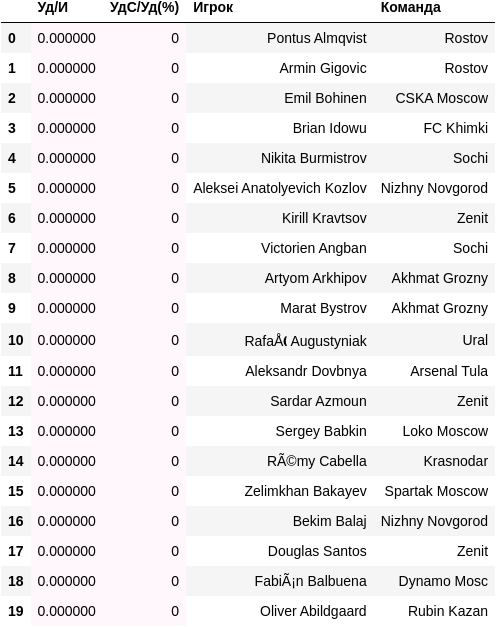
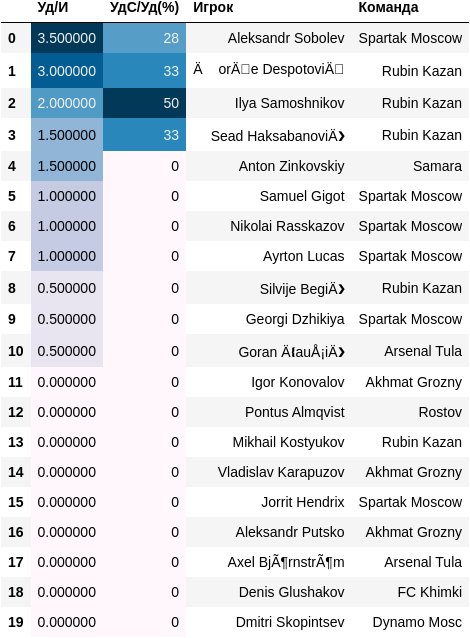
Fix some bugs in updating

diff --git a/domain/player_stats.py b/domain/player_stats.py
@@ -38,7 +38,7 @@ class PlayerStatsManager(Manager):
         session.close()
         return result
 
-    def __update_player(self, cur_player: PlayerStats) -> PlayerStats:
+    def __update_player(self, cur_player: PlayerStats) -> bool:
         """
         Update player stats for next round
         """
@@ -46,60 +46,60 @@ class PlayerStatsManager(Manager):
         try:
             session.query(PlayerStats).filter(PlayerStats.id == cur_player.id).update({
                 # round 0
-                'r0_minutes': cur_player["r1_minutes"],
-                'r0_shoots': cur_player["r1_shoots"],
-                'r0_shoots_on_target': cur_player["r1_shoots_on_target"],
-                'r0_xg': cur_player["r1_xg"],
-                'r0_npxg': cur_player["r1_npxg"],
-                'r0_xa': cur_player["r1_xa"],
-                'r0_sca': cur_player["r1_sca"],
-                'r0_gca': cur_player["r1_gca"],
+                'r0_minutes': cur_player.r1_minutes,
+                'r0_shoots': cur_player.r1_shoots,
+                'r0_shoots_on_target': cur_player.r1_shoots_on_target,
+                'r0_xg': cur_player.r1_xg,
+                'r0_npxg': cur_player.r1_npxg,
+                'r0_xa': cur_player.r1_xa,
+                'r0_sca': cur_player.r1_sca,
+                'r0_gca': cur_player.r1_gca,
                 # round 1
-                'r1_minutes': cur_player["r2_minutes"],
-                'r1_shoots': cur_player["r2_shoots"],
-                'r1_shoots_on_target': cur_player["r2_shoots_on_target"],
-                'r1_xg': cur_player["r2_xg"],
-                'r1_npxg': cur_player["r2_npxg"],
-                'r1_xa': cur_player["r2_xa"],
-                'r1_sca': cur_player["r2_sca"],
-                'r1_gca': cur_player["r2_gca"],
+                'r1_minutes': cur_player.r2_minutes,
+                'r1_shoots': cur_player.r2_shoots,
+                'r1_shoots_on_target': cur_player.r2_shoots_on_target,
+                'r1_xg': cur_player.r2_xg,
+                'r1_npxg': cur_player.r2_npxg,
+                'r1_xa': cur_player.r2_xa,
+                'r1_sca': cur_player.r2_sca,
+                'r1_gca': cur_player.r2_gca,
                 # round 2
-                'r2_minutes': cur_player["r3_minutes"],
-                'r2_shoots': cur_player["r3_shoots"],
-                'r2_shoots_on_target': cur_player["r3_shoots_on_target"],
-                'r2_xg': cur_player["r3_xg"],
-                'r2_npxg': cur_player["r3_npxg"],
-                'r2_xa': cur_player["r3_xa"],
-                'r2_sca': cur_player["r3_sca"],
-                'r2_gca': cur_player["r3_gca"],
+                'r2_minutes': cur_player.r3_minutes,
+                'r2_shoots': cur_player.r3_shoots,
+                'r2_shoots_on_target': cur_player.r3_shoots_on_target,
+                'r2_xg': cur_player.r3_xg,
+                'r2_npxg': cur_player.r3_npxg,
+                'r2_xa': cur_player.r3_xa,
+                'r2_sca': cur_player.r3_sca,
+                'r2_gca': cur_player.r3_gca,
                 # round 3
-                'r3_minutes': cur_player["r4_minutes"],
-                'r3_shoots': cur_player["r4_shoots"],
-                'r3_shoots_on_target': cur_player["r4_shoots_on_target"],
-                'r3_xg': cur_player["r4_xg"],
-                'r3_npxg': cur_player["r4_npxg"],
-                'r3_xa': cur_player["r4_xa"],
-                'r3_sca': cur_player["r4_sca"],
-                'r3_gca': cur_player["r4_gca"],
+                'r3_minutes': cur_player.r4_minutes,
+                'r3_shoots': cur_player.r4_shoots,
+                'r3_shoots_on_target': cur_player.r4_shoots_on_target,
+                'r3_xg': cur_player.r4_xg,
+                'r3_npxg': cur_player.r4_npxg,
+                'r3_xa': cur_player.r4_xa,
+                'r3_sca': cur_player.r4_sca,
+                'r3_gca': cur_player.r4_gca,
                 # round 4
-                'r4_minutes': cur_player["r5_minutes"],
-                'r4_shoots': cur_player["r5_shoots"],
-                'r4_shoots_on_target': cur_player["r5_shoots_on_target"],
-                'r4_xg': cur_player["r5_xg"],
-                'r4_npxg': cur_player["r5_npxg"],
-                'r4_xa': cur_player["r5_xa"],
-                'r4_sca': cur_player["r5_sca"],
-                'r4_gca': cur_player["r5_gca"],
+                'r4_minutes': cur_player.r5_minutes,
+                'r4_shoots': cur_player.r5_shoots,
+                'r4_shoots_on_target': cur_player.r5_shoots_on_target,
+                'r4_xg': cur_player.r5_xg,
+                'r4_npxg': cur_player.r5_npxg,
+                'r4_xa': cur_player.r5_xa,
+                'r4_sca': cur_player.r5_sca,
+                'r4_gca': cur_player.r5_gca,
             })
-            upd_player = session.query(PlayerStats).filter(PlayerStats.id == cur_player.id).first()
-            return upd_player
+            session.commit()
+            return True
         except Exception as ex:
             # TODO logging
             print(ex)
             exc_type, exc_obj, exc_tb = sys.exc_info()
             fname = os.path.split(exc_tb.tb_frame.f_code.co_filename)[1]
             print(exc_type, fname, exc_tb.tb_lineno)
-            return None
+            return False
         finally:
             session.commit()
             session.close()
@@ -110,7 +110,11 @@ class PlayerStatsManager(Manager):
         if last3_minutes < self.LAST3_MIN:
             last3_minutes = 0
             last3_shoots = 0
-        last3_shoots_per_game = last3_shoots * last3_minutes
+
+        if last3_minutes > 0:
+            last3_shoots_per_game = last3_shoots / last3_minutes
+        else:
+            last3_shoots_per_game = 0
         if last3_shoots == 0:
             last3_on_target_per_shoot = 0
         else:
@@ -122,7 +126,11 @@ class PlayerStatsManager(Manager):
         if last5_minutes < self.LAST5_MIN:
             last5_minutes = 0
             last5_shoots = 0
-        last5_shoots_per_game = last5_shoots * last5_minutes
+
+        if last5_minutes > 0:
+            last5_shoots_per_game = last5_shoots / last5_minutes
+        else:
+            last5_shoots_per_game = 0
         if last5_shoots == 0:
             last5_on_target_per_shoot = 0
         else:
@@ -139,7 +147,13 @@ class PlayerStatsManager(Manager):
                 cur_player: PlayerStats = self.get_player(player_stat)
                 if cur_player:
                     if new_round:
-                        cur_player = self.__update_player(cur_player)
+                        if self.__update_player(cur_player):
+                            # session.refresh(cur_player)
+                            cur_player: PlayerStats = self.get_player(player_stat)
+                        else:
+                            # TODO logging!!!
+                            print("Error")
+                            pass
                     last3_shoots_per_game, last3_on_target_per_shoot, last5_shoots_per_game, \
                     last5_on_target_per_shoot = self.__compute_shoots(player_stat, cur_player)
 
@@ -153,6 +167,7 @@ class PlayerStatsManager(Manager):
                         'last5_shoots_per_game': last5_shoots_per_game,
                         'last5_on_target_per_shoot': last5_on_target_per_shoot
                     })
+                    session.commit()
                 else:  # if new player
                     session.add(PlayerStats(player_stat['name'], league_name, player_stat['team'],
                                             player_stat['position']))
@@ -180,16 +195,22 @@ class PlayerStatsManager(Manager):
         last3_minutes = player_info["minutes"] - player_stat.r2_minutes
         if last3_minutes < self.LAST3_MIN:
             last3_minutes = 0
-        last3_xg_per_game = last3_minutes * (player_info["xg"] - player_stat.r2_xg)
-        last3_npxg_per_game = last3_minutes * (player_info["npxg"] - player_stat.r2_npxg)
-        last3_xa_per_game = last3_minutes * (player_info["xa"] - player_stat.r2_xa)
+        if last3_minutes > 0:
+            last3_xg_per_game = (player_info["xg"] - player_stat.r2_xg) / last3_minutes
+            last3_npxg_per_game = (player_info["npxg"] - player_stat.r2_npxg) / last3_minutes
+            last3_xa_per_game = (player_info["xa"] - player_stat.r2_xa) / last3_minutes
+        else:
+            last3_xg_per_game, last3_npxg_per_game, last3_xa_per_game = 0, 0, 0
 
         last5_minutes = player_info["minutes"] - player_stat.r0_minutes
         if last5_minutes < self.LAST5_MIN:
             last5_minutes = 0
-        last5_xg_per_game = last5_minutes * (player_info["xg"] - player_stat.r0_xg)
-        last5_npxg_per_game = last5_minutes * (player_info["npxg"] - player_stat.r0_npxg)
-        last5_xa_per_game = last5_minutes * (player_info["xa"] - player_stat.r0_xa)
+        if last5_minutes > 0:
+            last5_xg_per_game = (player_info["xg"] - player_stat.r0_xg) / last5_minutes
+            last5_npxg_per_game = (player_info["npxg"] - player_stat.r0_npxg) / last5_minutes
+            last5_xa_per_game = (player_info["xa"] - player_stat.r0_xa) / last5_minutes
+        else:
+            last5_xg_per_game, last5_npxg_per_game, last5_xa_per_game = 0, 0, 0
 
         return (last3_xg_per_game, last3_npxg_per_game, last3_xa_per_game,
                 last5_xg_per_game, last5_npxg_per_game, last5_xa_per_game)
@@ -214,6 +235,7 @@ class PlayerStatsManager(Manager):
                         'last5_npxg_per_game': last5_npxg_per_game,
                         'last5_xa_per_game': last5_xa_per_game
                     })
+                    session.commit()
                 else:  # if new player
                     session.add(PlayerStats(player_stat['name'], league_name, player_stat['team'],
                                             player_stat['position']))
@@ -225,6 +247,7 @@ class PlayerStatsManager(Manager):
                             'r5_npxg': player_stat["npxg"],
                             'r5_xa': player_stat["xa"]
                         })
+                        session.commit()
             return True
         except Exception as ex:
             # TODO logging
@@ -241,14 +264,20 @@ class PlayerStatsManager(Manager):
         last3_minutes = player_info["minutes"] - player_stat.r2_minutes
         if last3_minutes < self.LAST3_MIN:
             last3_minutes = 0
-        last3_sca_per_game = last3_minutes * (player_info["sca"] - player_stat.r2_sca)
-        last3_gca_per_game = last3_minutes * (player_info["gca"] - player_stat.r2_gca)
+        if last3_minutes > 0:
+            last3_sca_per_game = (player_info["sca"] - player_stat.r2_sca) / last3_minutes
+            last3_gca_per_game = (player_info["gca"] - player_stat.r2_gca) / last3_minutes
+        else:
+            last3_sca_per_game, last3_gca_per_game = 0, 0
 
         last5_minutes = player_info["minutes"] - player_stat.r0_minutes
         if last5_minutes < self.LAST5_MIN:
             last5_minutes = 0
-        last5_sca_per_game = last5_minutes * (player_info["sca"] - player_stat.r0_sca)
-        last5_gca_per_game = last5_minutes * (player_info["gca"] - player_stat.r0_gca)
+        if last5_minutes > 0:
+            last5_sca_per_game = (player_info["sca"] - player_stat.r0_sca) / last5_minutes
+            last5_gca_per_game = (player_info["gca"] - player_stat.r0_gca) / last5_minutes
+        else:
+            last5_sca_per_game, last5_gca_per_game = 0, 0
 
         return last3_sca_per_game, last3_gca_per_game, last5_sca_per_game, last5_gca_per_game
 

diff --git a/utils/updates.py b/utils/updates.py
@@ -1,4 +1,5 @@
 import asyncio
+import datetime
 
 from handlers import dp
 from utils.notify_admins import notify_admin
@@ -17,32 +18,37 @@ async def update_players_stats(league_name: str, new_round: bool):
     player_stats_manager.update_league(league_name, new_round)
 
 
-async def update_league(league_name: str, upd_cnt: int):
-    new_round = league_info_manager.is_new_round(league_name)
-    if new_round:
-        league_info_manager.update_deadline(league_name)
-    if upd_cnt % 12 == 0:
-        await update_coeffs(league_name)
+async def update_all():
+    await notify_admin(dp, "[INFO] start update all")
+    for league_name in xbet.leagues:
+        new_round = league_info_manager.is_new_round(league_name)
+        if new_round:
+            league_info_manager.update_deadline(league_name)
+
+        await update_players(league_name, new_round)
         await update_players_stats(league_name, new_round)
-    await update_players(league_name, new_round)
+        await update_coeffs(league_name)
+    await notify_admin(dp, "[INFO] finish update all")
 
 
-async def update(upd_cnt: int):
+async def update_players_leagues():
+    await notify_admin(dp, "[INFO] start update players")
     for league in xbet.leagues:
-        await update_league(league, upd_cnt)
+        await update_players(league, False)
+    await notify_admin(dp, "[INFO] finish update players")
 
 
-async def on_startup(at_start=False, timeout=1*60*60):
-    # timeout for players == 1 hour, for coeffs & stats == 12*timeout
-    upd_cnt = 1
-    await notify_admin(dp, "### bot started")
-    if at_start:
-        await update(upd_cnt)
-        upd_cnt += 1
+async def on_startup(upd_at_start=True, timeout: int = 1 * 60 * 60,
+                     upd_time: datetime.datetime = datetime.datetime.strptime("03:00:00", "%H:%M:%S")):
+    upd_today = upd_at_start
+    await notify_admin(dp, "[INFO] bot started")
     while True:
-        await notify_admin(dp, "### start sleeping")
         await asyncio.sleep(timeout)
-        await update(upd_cnt)
-        if upd_cnt == 12:
-            upd_cnt = 1
-
+        # restart upd_today
+        if upd_today and datetime.datetime.now().time() < upd_time.time():
+            upd_today = False
+        if (not upd_today) and datetime.datetime.now().time() > upd_time.time():
+            await update_all()
+            upd_today = True
+        # else:
+        #     await update_players_leagues()

diff --git a/db/parse/sports.py b/db/parse/sports.py
@@ -38,10 +38,10 @@ class Sports:
             'Germany': 'https://www.sports.ru/fantasy/football/team/points/2312024.html',  # ok
             'Spain': 'https://www.sports.ru/fantasy/football/team/points/2243562.html',
             'Netherlands': 'https://www.sports.ru/fantasy/football/team/points/2243575.html',
-            'Championship': 'https://www.sports.ru/fantasy/football/team/points/2243558.html',
+            'Championship': 'https://www.sports.ru/fantasy/football/team/points/2314647.html',  # ok
             'Turkey': 'https://www.sports.ru/fantasy/football/team/points/2243571.html',
             'Italy': 'https://www.sports.ru/fantasy/football/team/points/2258596.html',
-            'Portugal': 'https://www.sports.ru/fantasy/football/team/points/2258098.html',
+            'Portugal': 'https://www.sports.ru/fantasy/football/team/points/2314643.html',  # ok
             'UEFA_1': 'https://www.sports.ru/fantasy/football/team/points/2283074.html',
             'UEFA_2': 'https://www.sports.ru/fantasy/football/team/points/2284228.html',
         }

diff --git a/db/parse/fbref.py b/db/parse/fbref.py
@@ -24,11 +24,11 @@ class FbrefParser:
         }
 
         self.xg_leagues = {
-            'France': 'https://widgets.sports-reference.com/wg.fcgi?css=1&site=fb&url=%2Fen%2Fcomps%2F13%2Fstats%2FLigue-1-Stats&div=div_stats_standard',
+            # 'France': 'https://widgets.sports-reference.com/wg.fcgi?css=1&site=fb&url=%2Fen%2Fcomps%2F13%2Fstats%2FLigue-1-Stats&div=div_stats_standard',
         }
 
         self.shoots_creation_leagues = {
-            'France': 'https://widgets.sports-reference.com/wg.fcgi?css=1&site=fb&url=%2Fen%2Fcomps%2F13%2Fgca%2FLigue-1-Stats&div=div_stats_gca',
+            # 'France': 'https://widgets.sports-reference.com/wg.fcgi?css=1&site=fb&url=%2Fen%2Fcomps%2F13%2Fgca%2FLigue-1-Stats&div=div_stats_gca',
         }
 
     def get_shooting_stats(self, league_name: str) -> List[Dict]:

diff --git a/utils/notify_admins.py b/utils/notify_admins.py
@@ -2,10 +2,10 @@ import logging
 from aiogram import Dispatcher
 from data.config import admins
 
+
 async def notify_admin(dp: Dispatcher, message):
-    # for admin in admins:
-    #     try:
-    #         await dp.bot.send_message(admin, message)
-    #     except Exception as err:
-    #         logging.exception(err)
-    pass
+    for admin in admins:
+        try:
+            await dp.bot.send_message(admin, message)
+        except Exception as err:
+            logging.exception(err)

diff --git a/app.py b/app.py
@@ -10,6 +10,6 @@ if __name__ == '__main__':
     create_database()
     # run bot
     loop = asyncio.get_event_loop()
-    loop.create_task(on_startup(at_start=False, timeout=3*60*60))
+    loop.create_task(on_startup())
     loop.create_task(executor.start_polling(dp))
     loop.run_forever()

diff --git a/domain/players.py b/domain/players.py
@@ -98,4 +98,4 @@ class PlayerManager(Manager):
 if __name__ == "__main__":
     pm = PlayerManager()
     # print(pm.get_players("Russia"))
-    print(pm.update_league("Russia"))
+    print(pm.update_league("Russia", True))
